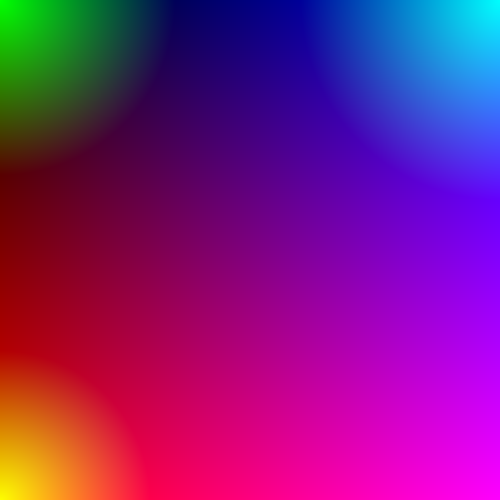
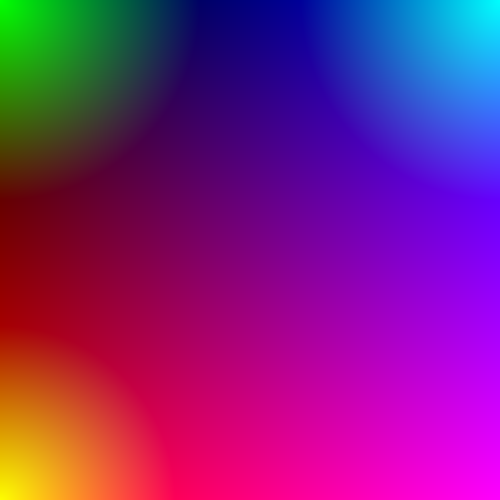
image gallery hw

Changed region(s): [[0.0, 0.66, 0.33, 1.0], [0.0, 0.0, 0.36, 0.36]]

diff --git a/picmaker.c b/picmaker.c
@@ -205,11 +205,11 @@ void mkpic7(int fd, char* buffer, int bufmax) {
 			
 			r = (int)((float)i/500 * 255);
 			
-			if( (int)distance(i, j, 0, 0) < 175 ) {
-				g = (int)(((175 - distance(i, j, 0, 0))/175)*255);
+			if( (int)distance(i, j, 0, 0) < 200 ) {
+				g = (int)(((200 - distance(i, j, 0, 0))/200)*255);
 			}
-			else if( (int)distance(i, j, 500, 0) < 150 ) {
-				g = (int)(((150 - distance(i, j, 500, 0))/150)*255);
+			else if( (int)distance(i, j, 500, 0) < 175 ) {
+				g = (int)(((175 - distance(i, j, 500, 0))/175)*255);
 			}
 			else if( (int)distance(i, j, 0, 500) < 200 ) {
 				g = (int)(((200 - distance(i, j, 0, 500))/200)*255);
